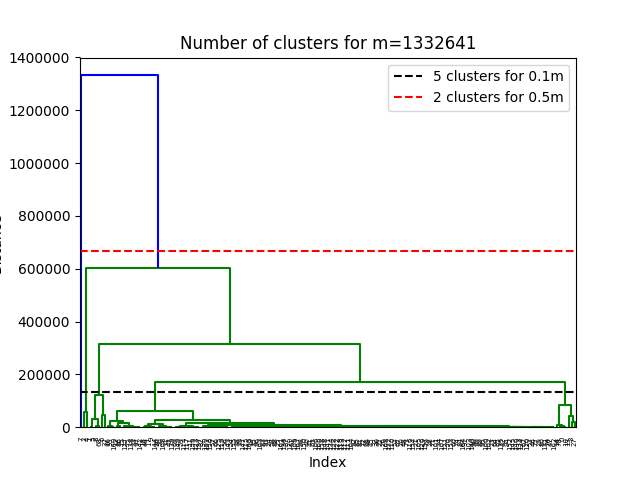
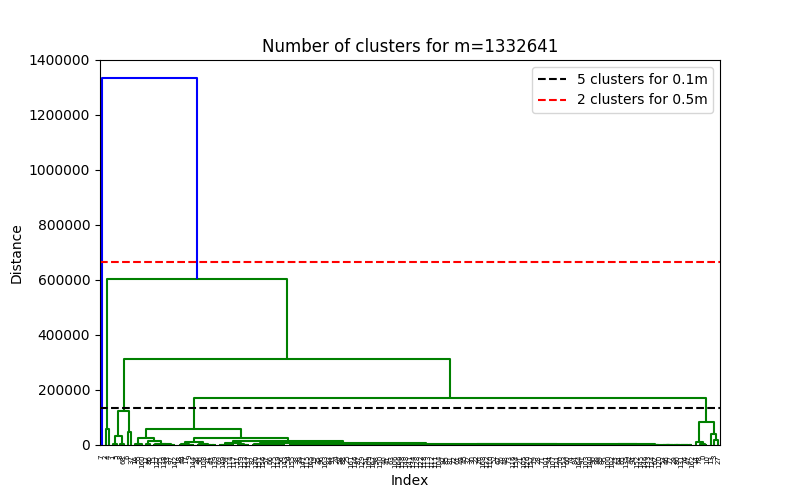
figsize=(8, 5)

diff --git a/hierarchical_clustering.py b/hierarchical_clustering.py
@@ -28,6 +28,7 @@ if __name__ == '__main__':
     # levels = linkage(points.T, 'complete')     # smallest diameter, part (b)
 
     # plot distances as function of level
+    plt.figure(figsize=(8, 5))
     plt.plot(range(n-1), levels[:, 2])
     plt.title('Distance between the Clusters merged in that Step')
     plt.xlabel('Level')
@@ -37,6 +38,7 @@ if __name__ == '__main__':
     # plot how many clusters for certain distance
     m = levels[-1, 2]  # last merging distance
 
+    plt.figure(figsize=(8, 5))
     plt.title('Number of clusters for m={}'.format(int(m)))
     plt.xlabel('Index')
     plt.ylabel('Distance')
